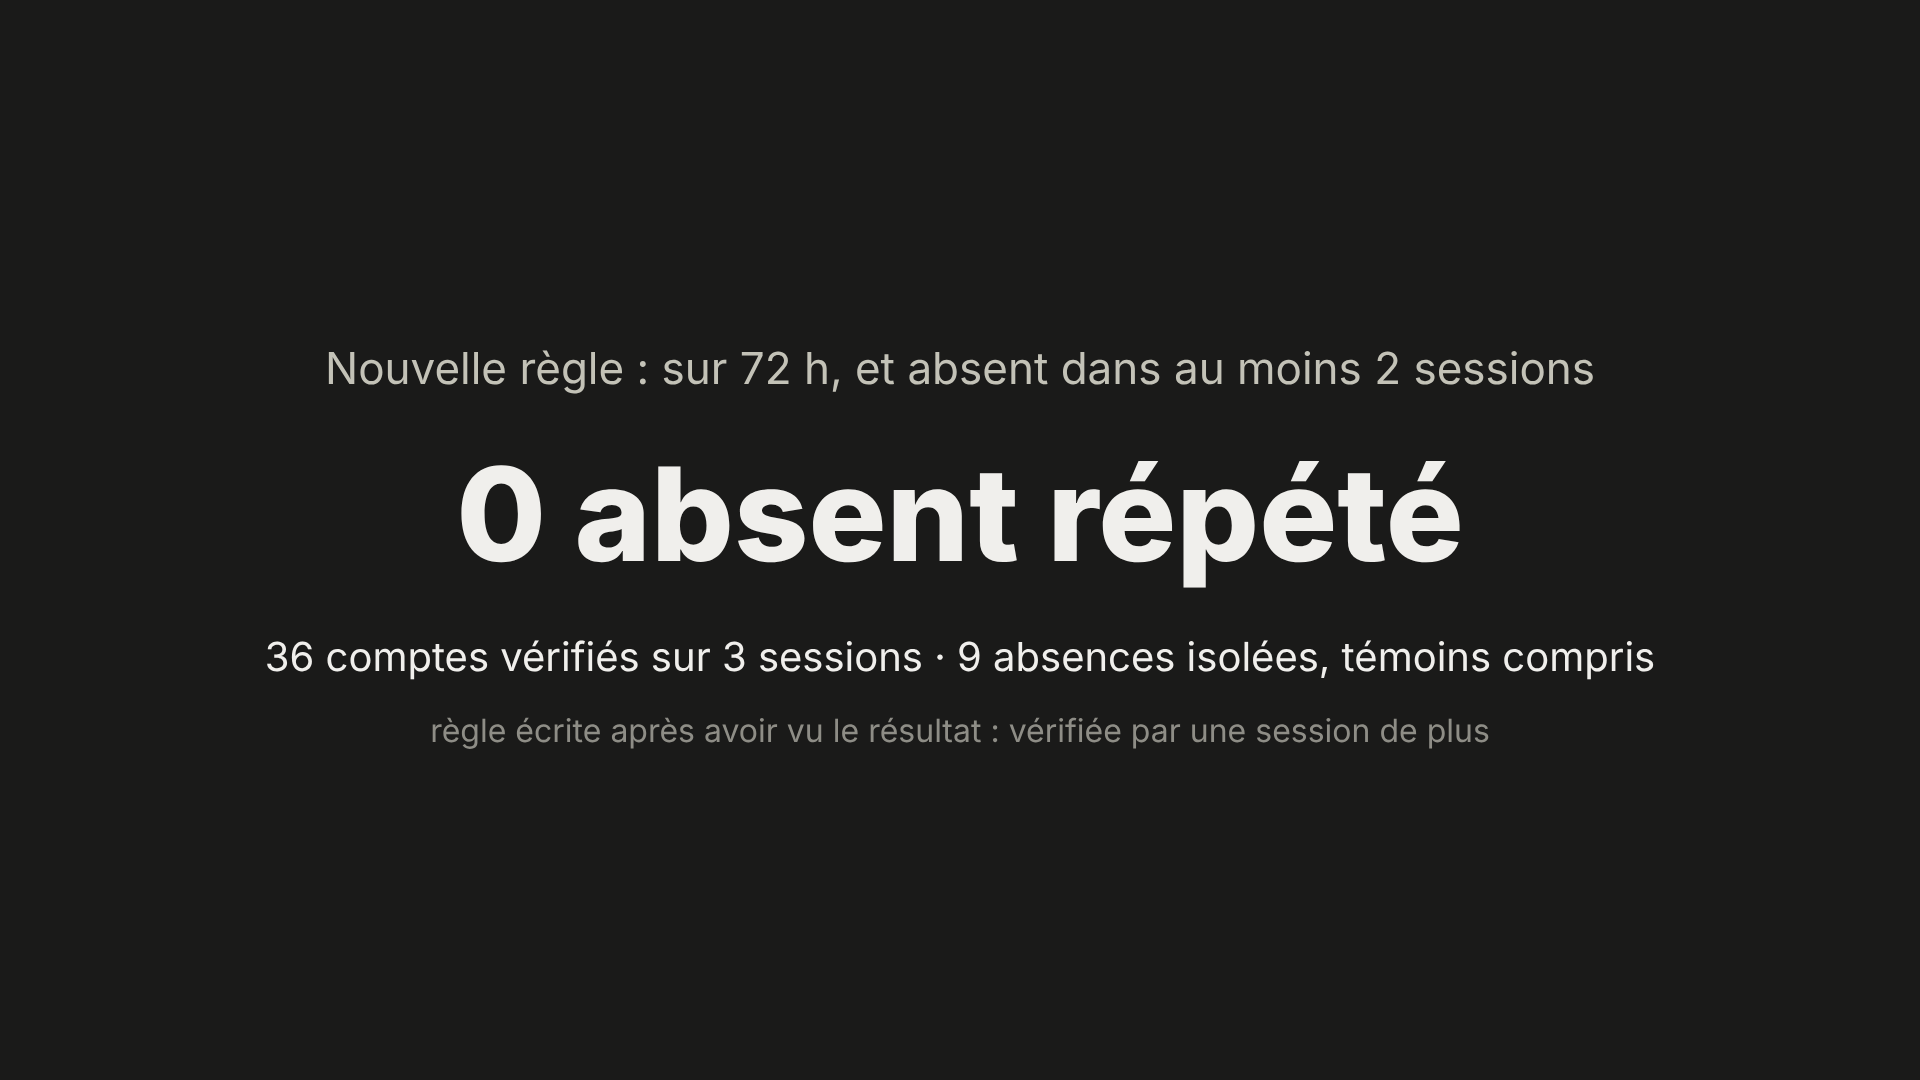
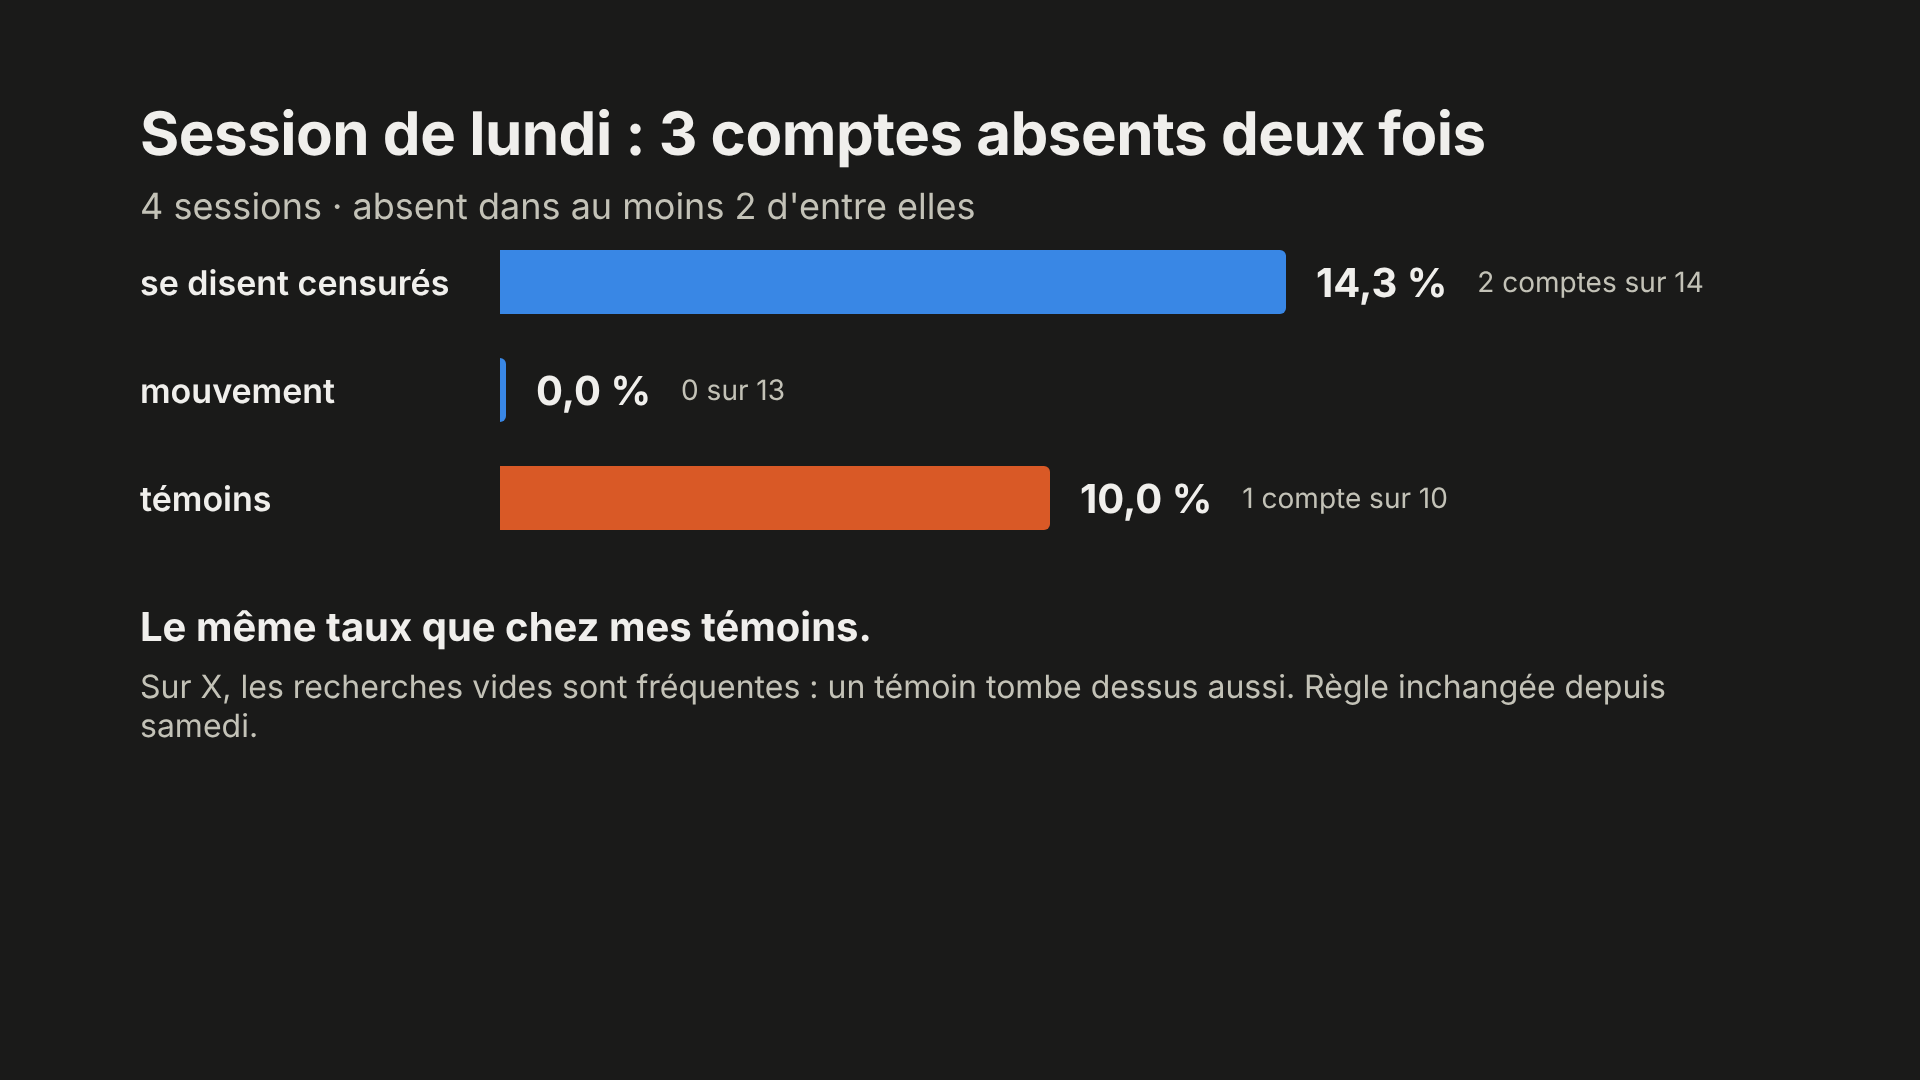
T6 comparé aux témoins ; résultats T6/T7 de lundi (script, journal, tableau de bord, graphiques)
Claude-Session: https://claude.ai/code/session_01UL65wsaHwCpXeakEcEBXrf

diff --git a/video/graphiques/fabriquer.py b/video/graphiques/fabriquer.py
@@ -709,13 +709,14 @@ def t6_grille(d):
 
 @graphique("S09_G09c")
 def t6_verdict(d):
-    sess = d.get("t6_sessions") or {}
-    n, iso, n_sess = sess.get("n_verifies", 36), sess.get("n_isoles", 9), len(sess.get("sessions", [])) or 3
-    corps = (f"<div style='margin:auto;text-align:center'><div style='font-size:44px;color:{C['texte2']}'>Nouvelle règle : sur 72 h, et absent dans au moins 2 sessions</div>"
-             f"<div style='font-size:130px;font-weight:800;margin:40px 0'>0 absent répété</div>"
-             f"<div style='font-size:40px'>{n} comptes vérifiés sur {n_sess} sessions · {iso} absences isolées, témoins compris</div>"
-             f"<div style='font-size:32px;color:{C['discret']};margin-top:30px'>règle écrite après avoir vu le résultat : vérifiée par une session de plus</div></div>")
-    return page(corps)
+    corps = (f"<div style='font-size:36px;color:{C['texte2']}'>4 sessions · absent dans au moins 2 d'entre elles</div>"
+             + barres([("se disent censurés", 2 / 14 * 100, C["mvt"], "2 comptes sur 14"),
+                       ("mouvement", 0.0, C["mvt"], "0 sur 13"),
+                       ("témoins", 1 / 10 * 100, C["tem"], "1 compte sur 10")], 20)
+             + f"<div style='font-size:40px;font-weight:700;margin-top:50px'>Le même taux que chez mes témoins.</div>"
+             f"<div style='font-size:32px;color:{C['texte2']};margin-top:16px'>Sur X, les recherches vides sont fréquentes : un témoin tombe dessus aussi. "
+             f"Règle inchangée depuis samedi.</div>")
+    return page(corps, titre="Session de lundi : 3 comptes absents deux fois")
 
 
 @graphique("S09_G10")
@@ -724,19 +725,20 @@ def t7(d):
     x0, x1 = 600, 1500
     def X(v):
         return x0 + v / max_v * (x1 - x0)
-    lignes = [("comptes du mouvement", 1.76, "11 comptes"), ("comptes qui se disent censurés", 2.46, "9 comptes")]
-    svg = [f"<svg width='1640' height='520'>"]
-    svg.append(f"<line x1='{X(1)}' y1='20' x2='{X(1)}' y2='380' stroke='{C['texte2']}' stroke-width='3' stroke-dasharray='10 8'/>"
-               f"<text x='{X(1)}' y='430' fill='{C['texte2']}' font-size='28' text-anchor='middle' font-family='Inter'>×1 = autant de vues que leurs autres posts</text>")
+    lignes = [("X · comptes du mouvement", 2.50, "12 comptes"), ("X · se disent censurés", 1.18, "13 comptes"),
+              ("TikTok · créateurs du mouvement", 1.35, "25 comptes")]
+    svg = [f"<svg width='1640' height='640'>"]
+    svg.append(f"<line x1='{X(1)}' y1='20' x2='{X(1)}' y2='520' stroke='{C['texte2']}' stroke-width='3' stroke-dasharray='10 8'/>"
+               f"<text x='{X(1)}' y='570' fill='{C['texte2']}' font-size='28' text-anchor='middle' font-family='Inter'>×1 = autant de vues que leurs autres posts</text>")
     for i, (lib, v, n) in enumerate(lignes):
-        y = 70 + i * 160
+        y = 50 + i * 160
         svg.append(f"<text x='0' y='{y + 45}' fill='{C['texte']}' font-size='32' font-family='Inter' font-weight='600'>{lib}</text>"
                    f"<text x='0' y='{y + 85}' fill='{C['discret']}' font-size='26' font-family='Inter'>{n}</text>"
                    f"<rect x='{x0}' y='{y}' width='{X(v) - x0}' height='90' rx='6' fill='{C['mvt']}'/>"
                    f"<text x='{X(v) + 20}' y='{y + 60}' fill='{C['texte']}' font-size='46' font-weight='800' font-family='Inter'>×{nb(v, 2)}</text>")
     svg.append("</svg>")
     return page("".join(svg), titre="Posts sur la manif : plus de vues, pas moins",
-                sous="Vues médianes des posts sur le mouvement, divisées par celles des autres posts du même compte (X).")
+                sous="Vues médianes des posts sur le mouvement, divisées par celles des autres posts du même compte.")
 
 
 def courbe(serie, titre, sous, annot, zone=None, coul=None, source=None, fmt=lambda v: nb(v)):

diff --git a/comptes.py b/comptes.py
@@ -45,6 +45,15 @@ AGE_MIN_H = 48      # T7 : un post plus jeune n'a pas fini d'accumuler ses vues
 MIN_COMPTES = 8     # T7 : en dessous, pas de conclusion
 
 
+def fisher_bilateral(a, b, c, d):
+    """Test exact de Fisher, tableau [[a, b], [c, d]]."""
+    n1, n2, k = a + b, c + d, a + c
+    def p(x):
+        return math.comb(n1, x) * math.comb(n2, k - x) / math.comb(n1 + n2, k)
+    p0 = p(a)
+    return min(1.0, sum(p(x) for x in range(max(0, k - n2), min(k, n1) + 1) if p(x) <= p0 * (1 + 1e-9)))
+
+
 def binom_bilateral(k, n):
     """p-valeur bilatérale du test du signe (k succès sur n, p = 0,5)."""
     if n == 0:
@@ -213,6 +222,23 @@ def main():
     else:
         detail = " ; ".join(f"{g} : {c['absent_repete']}/{sum(c[k] for k in cles)}" for g, c in sorted(par_g.items()))
         v6 = f"**DÉTECTÉ ({n_abs} compte(s) absents de la recherche dans plusieurs sessions)** — {detail}"
+        # Comparaison avec les témoins (même principe que T2) : un groupe ne compte que s'il dépasse les témoins
+        tm = par_g.get("temoin")
+        if tm:
+            n_tm, a_tm = sum(tm[k] for k in cles), tm["absent_repete"]
+            comp = []
+            for g, c in sorted(par_g.items()):
+                if g == "temoin":
+                    continue
+                n_g, a_g = sum(c[k] for k in cles), c["absent_repete"]
+                if n_g and n_tm:
+                    p = fisher_bilateral(a_g, n_g - a_g, a_tm, n_tm - a_tm)
+                    plus = a_g / n_g > a_tm / n_tm and p < 0.05
+                    comp.append(f"{g} {a_g}/{n_g} contre témoins {a_tm}/{n_tm}, p = {p:.2f}"
+                                + (" (plus que les témoins)" if plus else ""))
+            if comp:
+                aucun = all("plus que les témoins" not in x for x in comp)
+                v6 += (" → **pas plus que chez les témoins** : " if aucun else " → ") + " ; ".join(comp)
     verdicts.append({"test": "T6", "plateforme": "x", "verdict": v6})
     o.append(f"\n**Verdict T6 (X)** : {v6}\n")
     o.append("Détail par compte :\n")

diff --git a/video/SCRIPT.md b/video/SCRIPT.md
@@ -329,11 +329,14 @@
 > Sur X, j'ai vérifié une quarantaine de comptes : ceux qui disent être censurés, des comptes du mouvement, et des témoins. Pour chacun, je regarde son profil, puis je cherche ses posts dans la recherche de X. Si les posts existent mais n'apparaissent pas dans la recherche, c'est le fameux « search ban ».
 > Samedi soir, mon outil me sort ça : 12 comptes absents. Dont 7 de ceux qui disent être censurés. Ça y est, je le tiens ?
 > Non. Je regarde les deux autres sessions du même jour, celle de la nuit et celle de l'après-midi : ces mêmes comptes étaient tous là. Et parmi les « absents », il y a un compte de foot. Deux erreurs de ma part : X renvoie parfois une recherche vide, au milieu de recherches qui marchent, et en faisant défiler plus loin, je comparais des posts vieux de plusieurs semaines, que la recherche de X ne retrouve plus pour personne.
-> Alors j'ai corrigé la règle : on compare les trois derniers jours, et un compte n'est « absent » que s'il l'est dans deux sessions. Je vous le dis franchement : cette règle, je l'ai écrite après avoir vu le résultat. C'est pour ça que j'ai refait une session le lundi, pour vérifier avec la nouvelle règle. [RÉSULTAT : session du lundi.]
-> Résultat : 36 comptes vérifiés, aucun absent de façon répétée.
+> Alors j'ai corrigé la règle : on compare les trois derniers jours, et un compte n'est « absent » que s'il l'est dans deux sessions. Je vous le dis franchement : cette règle, je l'ai écrite après avoir vu le résultat. C'est pour ça que j'ai refait une session le lundi, pour vérifier avec la nouvelle règle.
+> Et là, surprise : 3 comptes sont absents dans deux sessions. Deux comptes qui disent être censurés… et un de mes témoins, qui n'a rien à voir avec le mouvement.
+> Deux sur quatorze d'un côté, un sur dix de l'autre : c'est le même taux. Sur X, les recherches qui reviennent vides sont si fréquentes qu'en quatre sessions, certains comptes tombent dessus deux fois, par hasard. Mon témoin en est la preuve.
+> Et cette fois, je n'ai pas changé la règle : je vous montre le résultat tel quel, à côté du témoin. Verdict : pas plus d'absents chez ceux qui se disent censurés que chez mes témoins. Et si ces deux comptes sont vraiment filtrés, X le fait avec ses propres filtres automatiques, contre le spam par exemple. Rien n'indique une demande de l'État.
 
 🎙 **Expérience 5 : les vues des posts sur la manif (T7)**
-> Dernière idée : comparer un compte à lui-même. Si vos posts sur la manif sont bridés, ils devraient faire moins de vues que vos autres posts. Sur 11 comptes du mouvement : leurs posts sur la manif font en médiane **1,8 fois plus** de vues que leurs autres posts. Pour ceux qui disent être censurés : 2,5 fois plus. [RÉSULTAT : session du lundi, et TikTok.]
+> Dernière idée : comparer un compte à lui-même. Si vos posts sur la manif sont bridés, ils devraient faire moins de vues que vos autres posts. Sur X, pour 12 comptes du mouvement, leurs posts sur la manif font en médiane **2,5 fois plus** de vues que leurs autres posts. Pour ceux qui disent être censurés, 1,2 fois plus : autant que le reste. Et sur TikTok, sur 25 comptes : 1,35 fois plus.
+> Parler de la manif ne fait pas perdre de vues. En moyenne, ça en fait plutôt gagner.
 
 🎙 **Ce que déclarent les plateformes (T4)**
 > Retour dans la base européenne, pour les déclassements cette fois. Chez TikTok, le 29 octobre, le nombre de décisions est multiplié par sept d'un coup. Ça ressemble à une preuve… sauf que ça touche toute l'Europe, toutes les décisions : TikTok a simplement changé sa façon de déclarer.
@@ -344,7 +347,7 @@
 > Je n'ai pas testé si les recherches par hashtag renvoyaient moins de résultats en France qu'à l'étranger, faute de temps. Je n'ai pas mesuré la portée réelle avec des comptes tests, je me l'étais interdit. Instagram et YouTube, je ne les ai pas suivis. Et surtout, aucune de ces expériences ne dit **qui** décide.
 
 🎙 **Le verdict**
-> Donc, le shadowban décidé par l'État, ça ne se prouve pas de l'extérieur : non testable. Une première mesure semblait montrer que TikTok examine plus souvent les vidéos du mouvement ; avec plus de témoins, l'écart a presque disparu. Les vidéos du mouvement ne perdent pas de vues, leurs indicateurs ne bougent pas pendant l'acte IV, les comptes ne disparaissent pas de la recherche, et les posts sur la manif font plus de vues, pas moins. Aucune de mes vidéos n'est déclarée déclassée dans la base européenne. Reste le pic d'Instagram, qu'on ne peut pas relier à la France. Pour aller plus loin, il faudrait les données internes des plateformes. Le règlement européen prévoit justement un accès pour les chercheurs.
+> Donc, le shadowban décidé par l'État, ça ne se prouve pas de l'extérieur : non testable. Une première mesure semblait montrer que TikTok examine plus souvent les vidéos du mouvement ; avec plus de témoins, l'écart a presque disparu. Les vidéos du mouvement ne perdent pas de vues, leurs indicateurs ne bougent pas pendant l'acte IV, les comptes qui se disent censurés ne disparaissent pas plus de la recherche que mes témoins, et les posts sur la manif font plus de vues, pas moins. Aucune de mes vidéos n'est déclarée déclassée dans la base européenne. Reste le pic d'Instagram, qu'on ne peut pas relier à la France. Pour aller plus loin, il faudrait les données internes des plateformes. Le règlement européen prévoit justement un accès pour les chercheurs.
 
 🎥 Changement de ton. Images d'archives de la Nouvelle-Calédonie en 2024 (droits à vérifier).
 

diff --git a/video/JOURNAL_DE_BORD.md b/video/JOURNAL_DE_BORD.md
@@ -90,6 +90,10 @@
   2. avec plus de défilement, on comparait des posts vieux de plusieurs semaines, que la recherche « Récent » de X ne retrouve plus pour personne (vérifié : la couverture est presque complète sur 3 jours, puis chute pour tous les comptes).
   - Correction : on compare sur 72 h, et un compte n'est « absent » que s'il l'est dans au moins 2 sessions. **Résultat : 36 comptes vérifiés sur 3 sessions, aucun absent de façon répétée, 9 absences isolées** (mouvement 3, revendication 4, témoins 2), dont 2 à confirmer lundi soir parce qu'elles n'ont été vérifiées qu'une fois.
   - **Honnêteté** : cette règle a été écrite après avoir vu le résultat. On le dit, on montre les deux versions, et la session de lundi soir servira de vérification indépendante. → séquence 9 : « mon outil a cru voir un shadowban, voilà pourquoi ce n'en était pas un »
+- **Mardi 10 novembre : session T6/T7 n°4 (lundi soir) et T7 TikTok** (30 créateurs du mouvement et 10 témoins, à la main avec Zeeschuimer). 10 recherches X reviennent vides, dont deux comptes de foot (témoins).
+  - **T6, toutes sessions (4)** : l'outil dit **DÉTECTÉ, 3 comptes absents dans au moins 2 sessions** : 2 comptes qui se disent censurés sur 14, **1 témoin** sur 10, 0 compte du mouvement sur 13. Même taux chez les témoins (Fisher p = 1). Les recherches vides sont fréquentes (6 samedi soir, 10 lundi, sur une quarantaine de comptes), et un compte de foot apparaît dans les deux listes. **On ne change pas la règle une seconde fois** : le verdict reste tel quel, avec la comparaison aux témoins ajoutée (même principe que T2). Lecture : pas plus que chez les témoins ; et un éventuel filtre serait celui de X, sans indice d'une demande de l'État. → séquence 9
+  - **T7, X** : comptes du mouvement ×2,50 (12 comptes, 2 sous 1, p = 0,039, donc significatif **dans le sens « plus vus »**) ; comptes qui se disent censurés ×1,18 (13 comptes, 6 sous 1, p = 1). **Rien détecté.**
+  - **T7, TikTok** : enfin testable, avec 25 comptes comparables : ×1,35, 8 sous 1, p = 0,11. **Rien détecté.**
 - **T7, X** : avec la session du soir, 11 comptes du mouvement deviennent comparables. Leurs posts sur le mouvement sont en fait **plus** vus que leurs autres posts (rapport médian 1,76, p = 0,55 ; pour les comptes qui se disent censurés, 2,46). **Rien détecté.** T7 TikTok : toujours 7 comptes, non testable avant la session de lundi soir.
 - **T8, TikTok** : les indicateurs internes changent pour 5 vidéos du mouvement sur 699 et 2 témoins sur 284. Pas d'écart (p = 1).
 - **T3/T4, base DSA de la Commission** (`dsa.py`, exports publics du 1er octobre au 8 novembre, 4 plateformes, environ 150 jours lus) :

diff --git a/TABLEAU_DE_BORD.md b/TABLEAU_DE_BORD.md
@@ -14,8 +14,8 @@
 | 2. retirer | **T2** disparitions | pas plus que les témoins (sans action de l'auteur : 8/1 137 contre 12/798) | 4 vidéos, toutes supprimées par leur auteur |
 | 2/3 | **T3/T4** base DSA (1er oct. – 8 nov.) | rien : décisions « France » en baisse (×0,7) ; posts non identifiables | rien : **aucune de nos 987 vidéos** n'a de retrait ni de déclassement déclaré ; la hausse du 29 oct. (×7) touche toute l'Europe |
 | 2/3 | T3/T4, Instagram et YouTube | Instagram : pic de déclassements « discours civique » du 20 au 27 oct. (×3), décidés par Instagram lui-même, sur toute l'UE, langue non déclarée → impossible à relier à la France | YouTube : rien |
-| 3. visibilité | **T6** absent de la recherche | rien de répété sur 3 sessions (9 absences isolées, témoins compris) | non testable |
-| 3. visibilité | **T7** portée comparée | rien : les posts sur le mouvement sont **plus** vus (×1,76) | non testable (7 comptes sur 8) → ce soir |
+| 3. visibilité | **T6** absent de la recherche | 4 sessions : 3 comptes absents deux fois (2 qui se disent censurés sur 14, **1 témoin** sur 10) → pas plus que chez les témoins | non testable |
+| 3. visibilité | **T7** portée comparée | rien : posts sur la manif **plus** vus (×2,5 mouvement, ×1,2 « censurés ») | rien : ×1,35 sur 25 comptes |
 | 3. visibilité | **T8** indicateurs internes | — | rien (5/699 contre 2/284) |
 | 3. visibilité | **T9** vues qui stagnent | — | rien (p = 0,38) |
 | 3. visibilité | **T5** recherches | non réalisé | non réalisé |

diff --git a/video/PLANS.md b/video/PLANS.md
@@ -192,7 +192,7 @@
 
 - Quand un code a des lettres (`S03_G01a` à `S03_G01f`, `S06_G04a` à `d`…), ce sont les **étapes d'une animation** : pose-les à la suite dans Resolve, avec un fondu enchaîné court (6 images) entre chaque.
 - Pour les refaire après de nouvelles données (session T6 de lundi, par exemple) : `python3 video/graphiques/fabriquer.py --help` (options : mesures, épisodes, base DSA, sessions T6).
-- **Il reste à mettre à jour** `S09_G09b` et `S09_G09c` avec la session de lundi, ainsi que `S09_G10` si T7 change.
+- `S09_G09c` (T6) et `S09_G10` (T7) sont à jour avec la session de lundi. **Il reste** `S09_G09b` (la grille session par session), à refaire quand j'aurai les exports de lundi.
 
 ## Ce qui manque encore dans le script avant de tourner
 
